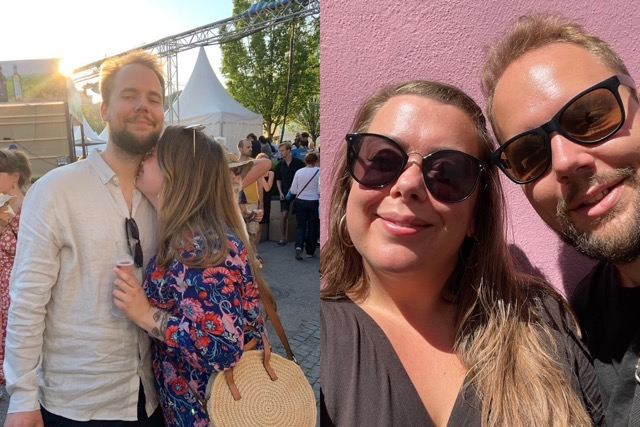
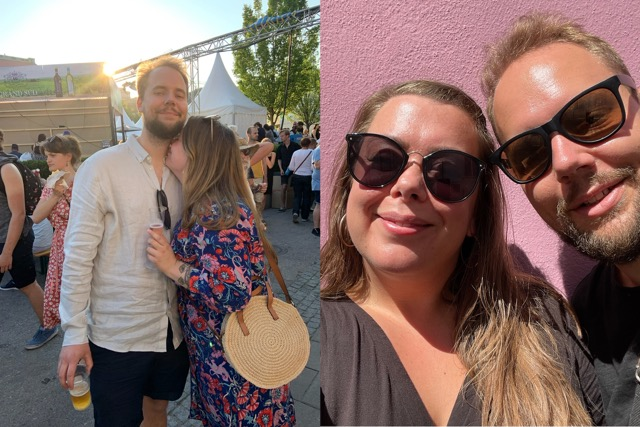
fixa montage crop

diff --git a/index.html b/index.html
@@ -14,19 +14,13 @@
   </head>
 
   <body>
-    <img
-      loading="lazy"
-      class="full"
-      src="assets/välkommen.jpeg"
-      style="object-position: bottom"
-    />
+    <img loading="lazy" class="full pull-bottom" src="assets/välkommen.jpeg" />
     <!-- <picture>
       <source media="(min-width: 700px)" srcset="assets/välkommen.jpeg" />
       <img
         loading="lazy"
         src="assets/välkommen-phone.jpeg"
-        style="object-position: bottom"
-        class="full"
+        class="full pull-bottom"
       />
     </picture> -->
     <section>
@@ -69,7 +63,11 @@
       </picture>
       <picture>
         <source media="(min-width: 700px)" srcset="assets/oss/montage.jpeg" />
-        <img loading="lazy" src="assets/oss/montage-phone.jpeg" />
+        <img
+          loading="lazy"
+          src="assets/oss/montage-phone.jpeg"
+          class="pull-right"
+        />
       </picture>
       <picture>
         <source media="(min-width: 700px)" srcset="assets/oss/orange.jpeg" />
@@ -188,21 +186,13 @@
         <h2>Toastmadames</h2>
         <figure class="profile">
           <!-- <img loading="lazy" src="assets/jacob.jpeg" /> -->
-          <img
-            style="object-position: top"
-            loading="lazy"
-            src="assets/sarah.jpeg"
-          />
+          <img class="pull-top" loading="lazy" src="assets/sarah.jpeg" />
           <figcaption>
             <h3>Sarah Tabrizi</h3>
           </figcaption>
         </figure>
         <figure class="profile">
-          <img
-            style="object-position: top"
-            loading="lazy"
-            src="assets/anna.jpeg"
-          />
+          <img class="pull-top" loading="lazy" src="assets/anna.jpeg" />
           <figcaption>
             <h3>Anna Marin</h3>
           </figcaption>

diff --git a/style.css b/style.css
@@ -11,6 +11,18 @@
 img {
   object-fit: cover;
 }
+img.pull-right {
+  object-position: right;
+}
+img.pull-top {
+  object-position: top;
+}
+img.pull-bottom {
+  object-position: bottom;
+}
+img.pull-left {
+  object-position: left;
+}
 
 body {
   font-family: "Libertinus Serif", "Times New Roman", Times, serif;

diff --git a/style.scss b/style.scss
@@ -16,6 +16,22 @@
 
 img {
   object-fit: cover;
+
+  &.pull-right {
+    object-position: right;
+  }
+
+  &.pull-top {
+    object-position: top;
+  }
+
+  &.pull-bottom {
+    object-position: bottom;
+  }
+
+  &.pull-left {
+    object-position: left;
+  }
 }
 
 body {
